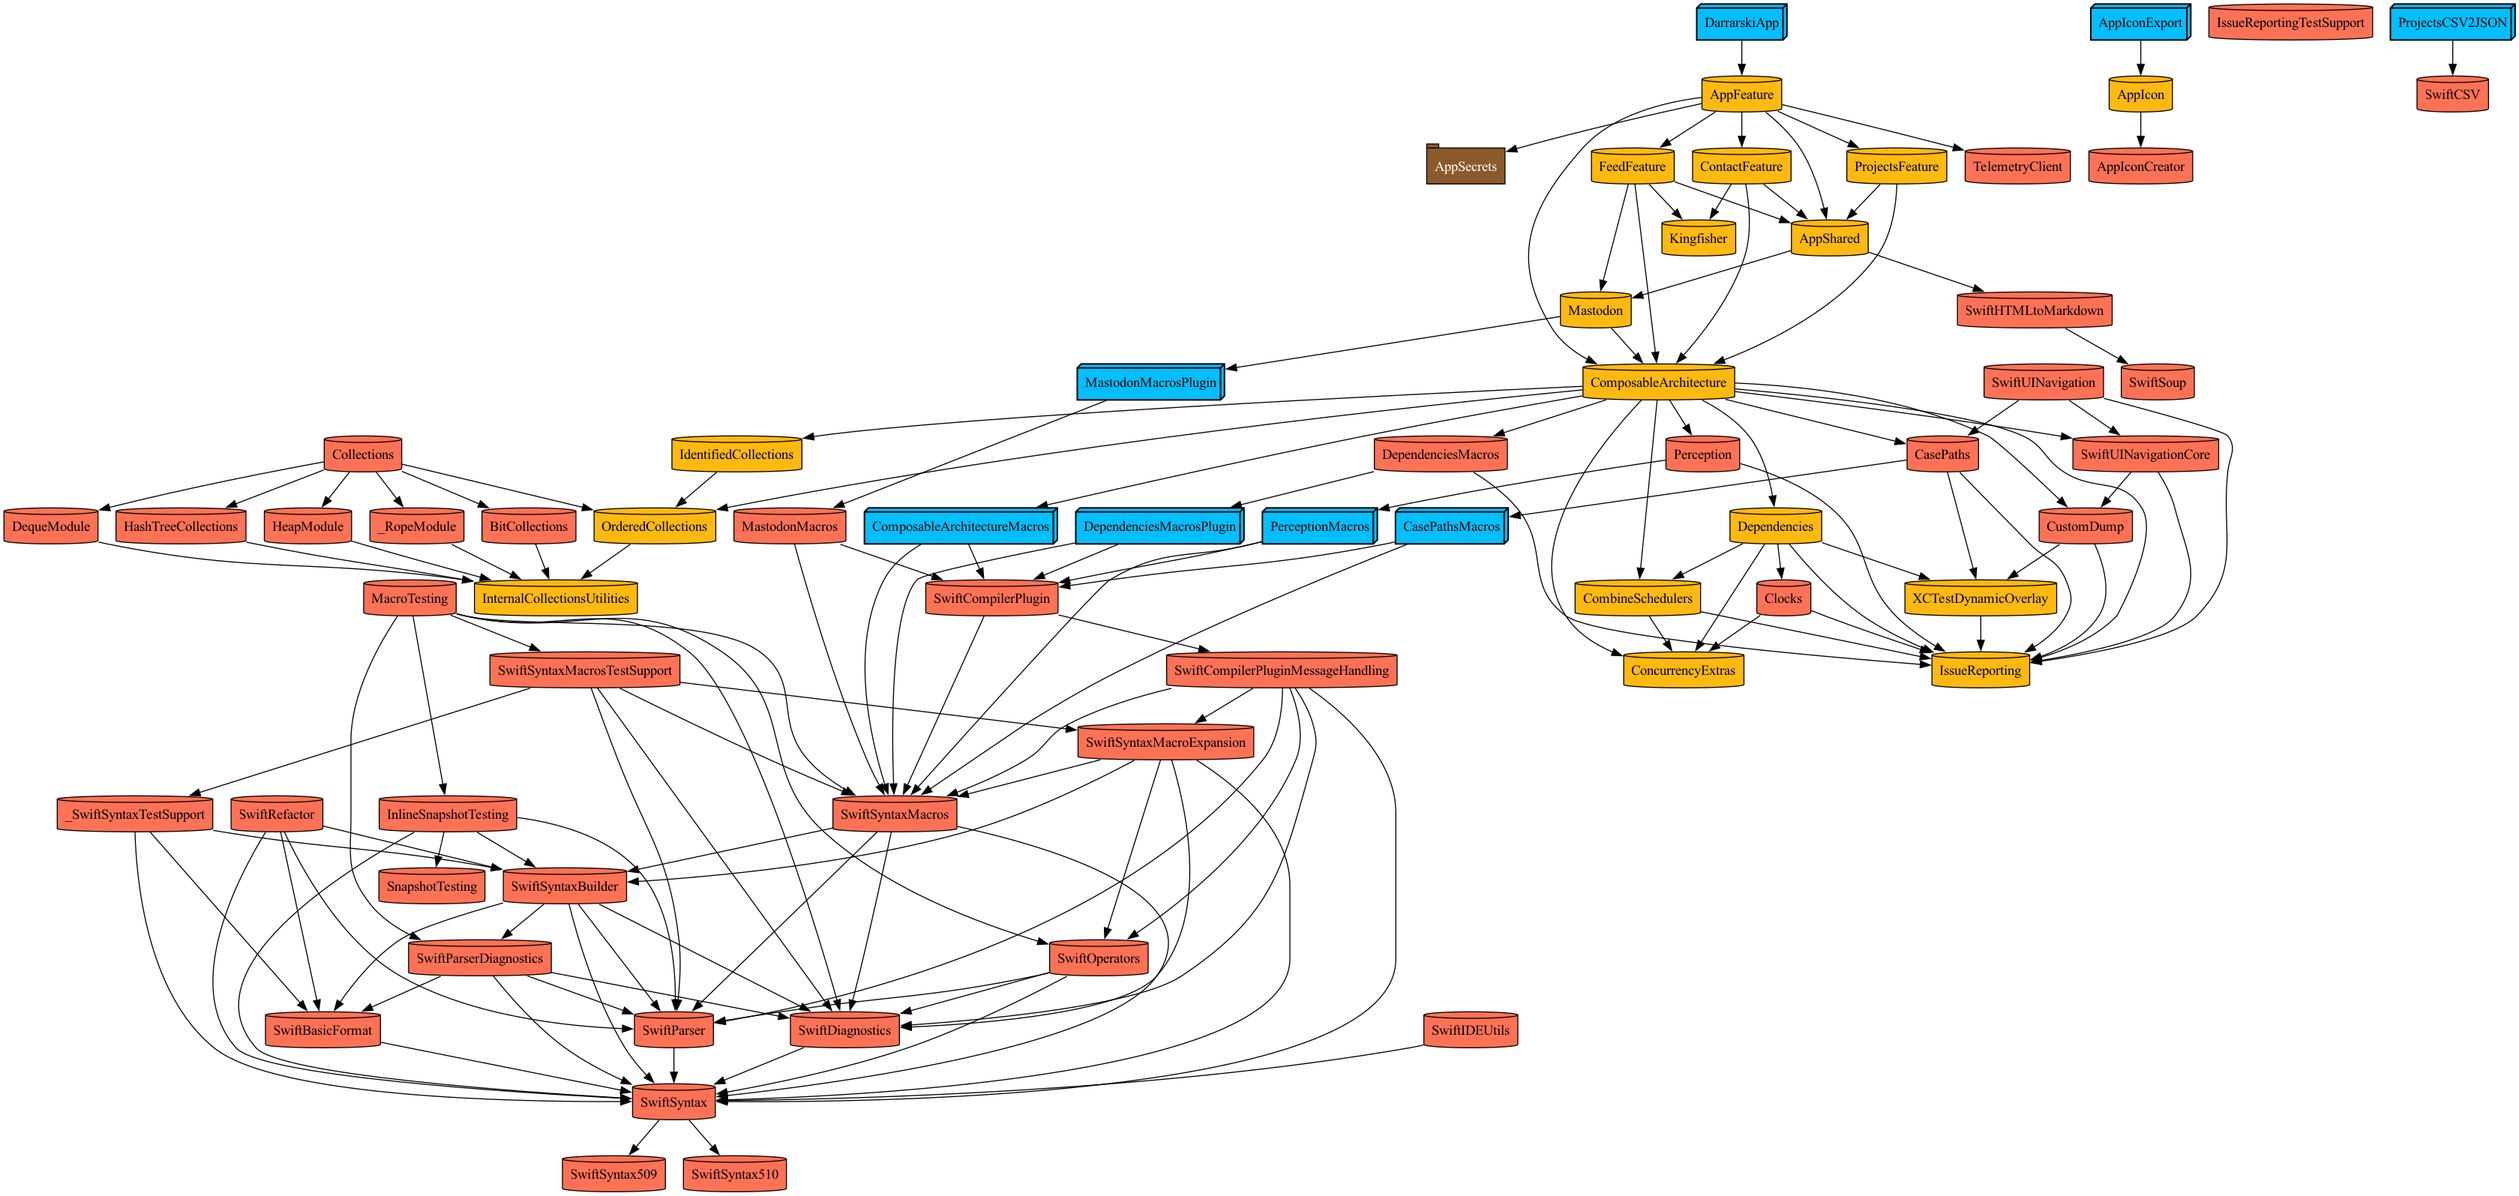
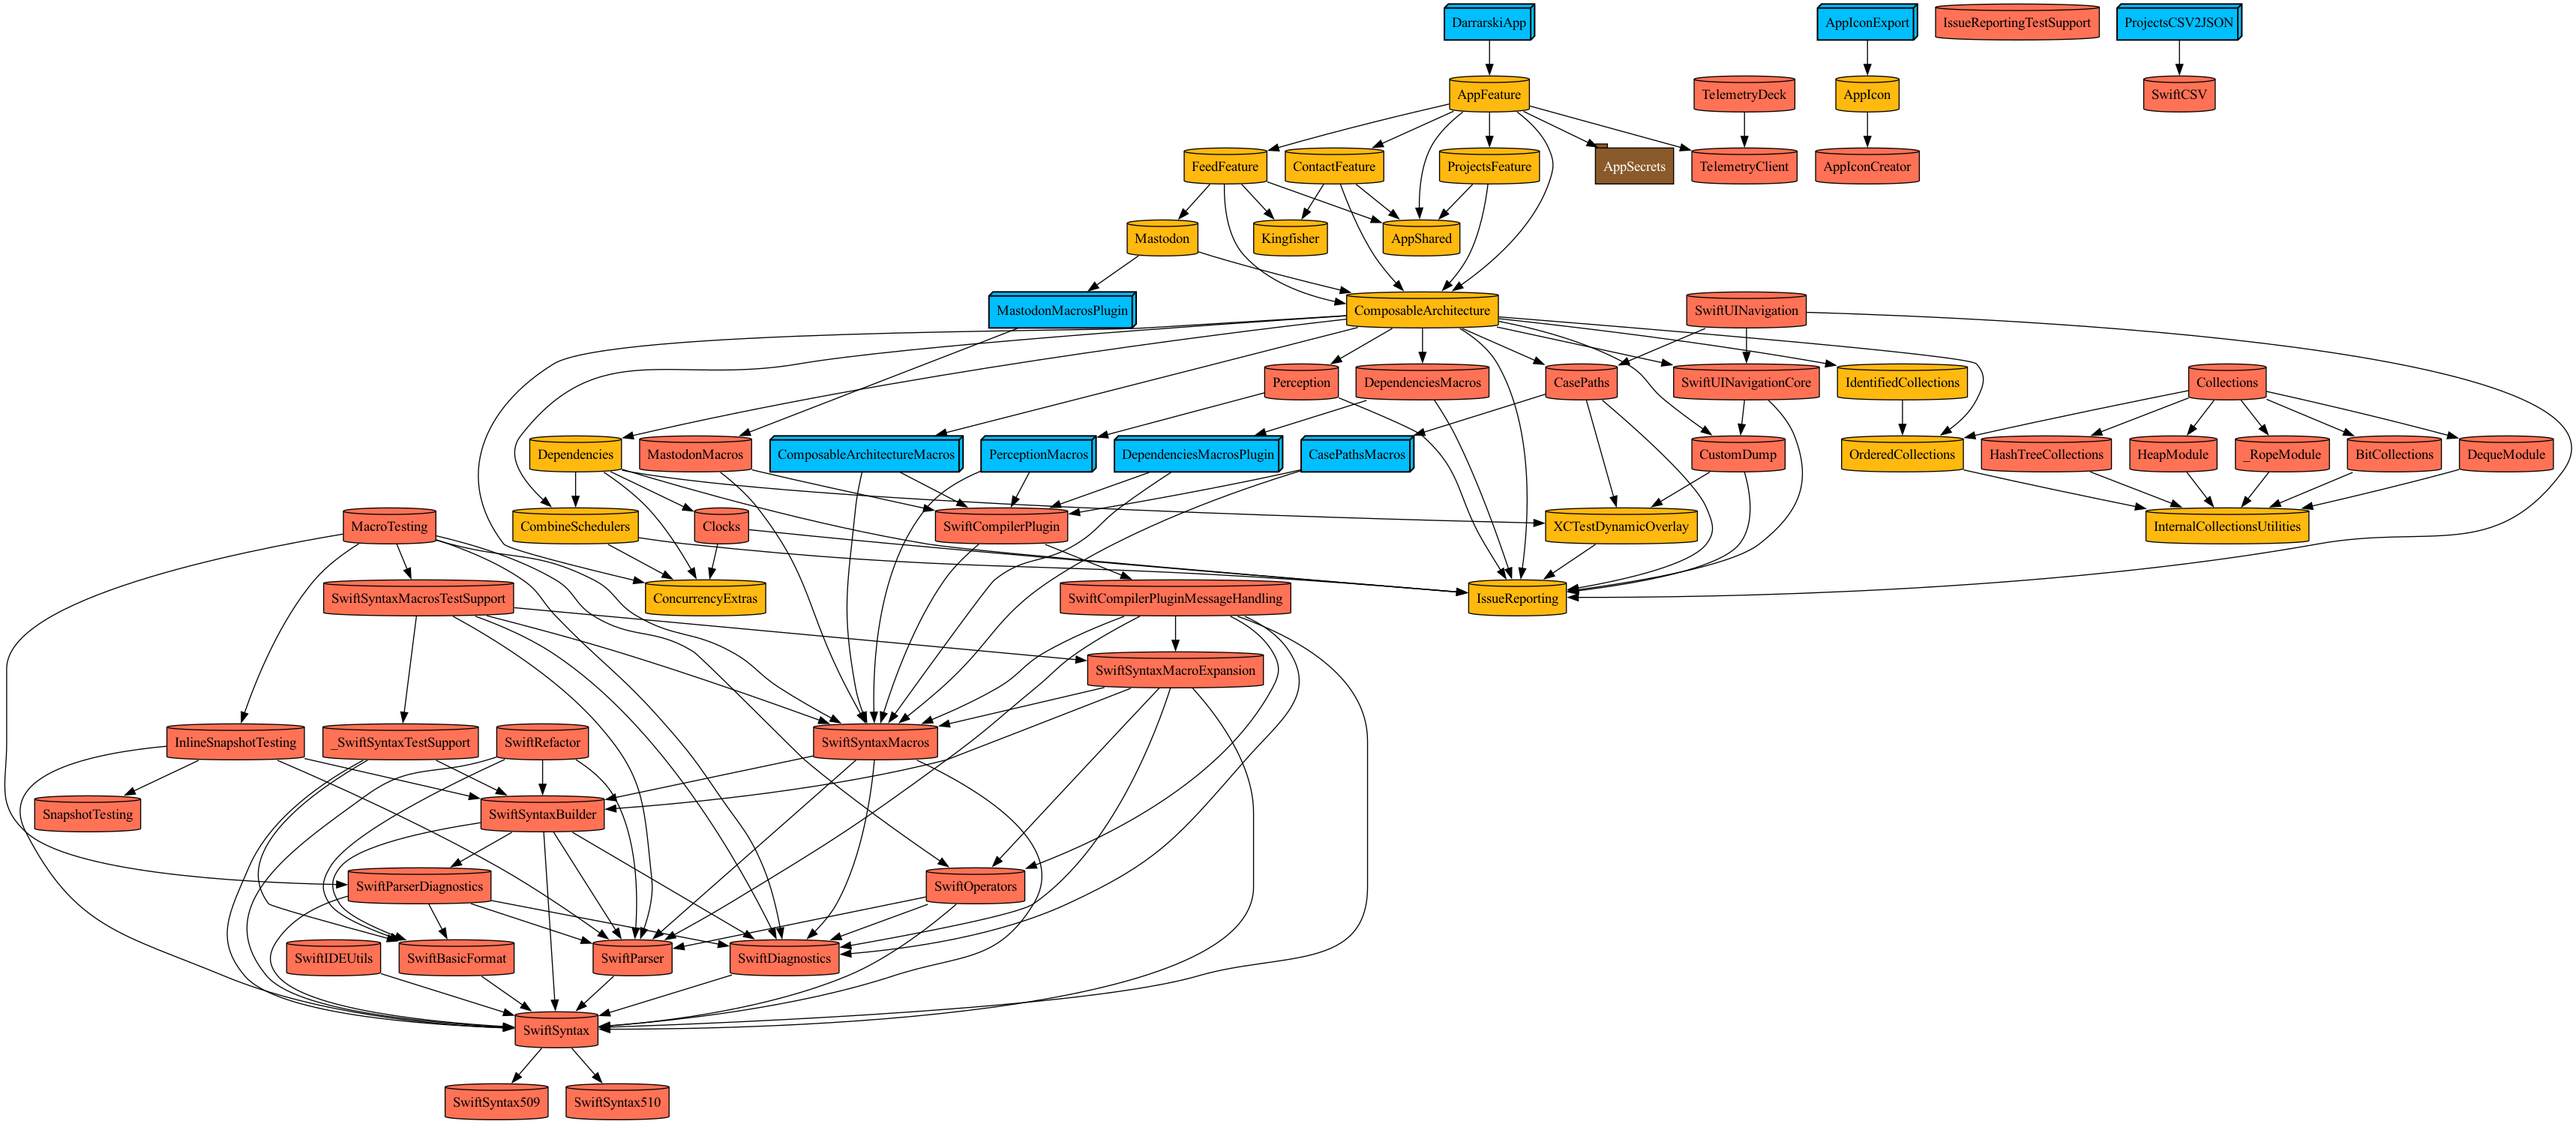
Remove unused dependencies

Changed region(s): [[0.0, 0.0, 1.0, 1.0], [0.5573, 0.8286, 0.6192, 0.8899], [0.3406, 0.3069, 0.3715, 0.3376]]

diff --git a/Tuist/Package.swift b/Tuist/Package.swift
@@ -31,7 +31,6 @@ let packageSettings = PackageSettings(
 let package = Package(
   name: "",
   dependencies: [
-    .package(url: "https://github.com/ActuallyTaylor/SwiftHTMLToMarkdown.git", from: "1.1.1"),
     .package(url: "https://github.com/apple/swift-syntax.git", from: "510.0.2"),
     .package(url: "https://github.com/darrarski/swiftui-app-icon-creator.git", from: "1.2.0"),
     .package(url: "https://github.com/onevcat/Kingfisher.git", from: "7.12.0"),

diff --git a/Projects/App/Project.swift b/Projects/App/Project.swift
@@ -30,10 +30,6 @@ let project = Project(
       name: "AppShared",
       resources: [
         "AppShared/Resources/**",
-      ],
-      dependencies: [
-        .target(name: "Mastodon"),
-        .external(name: "SwiftHTMLtoMarkdown"),
       ]
     ),
     .framework(
